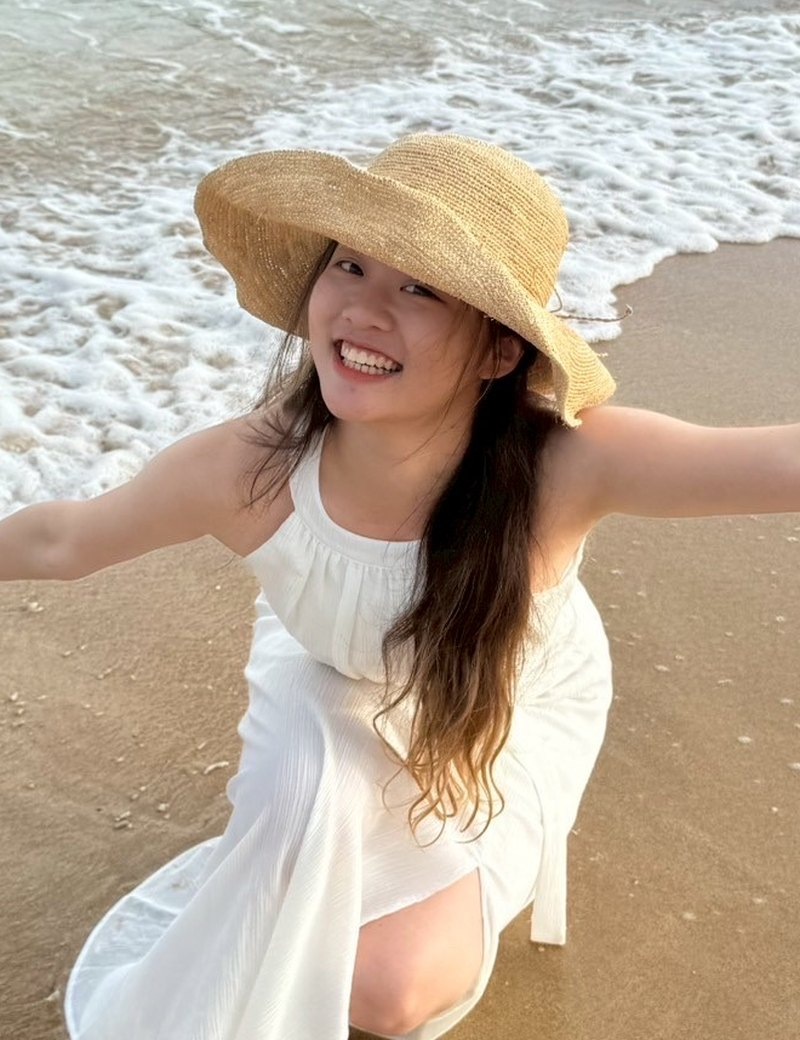
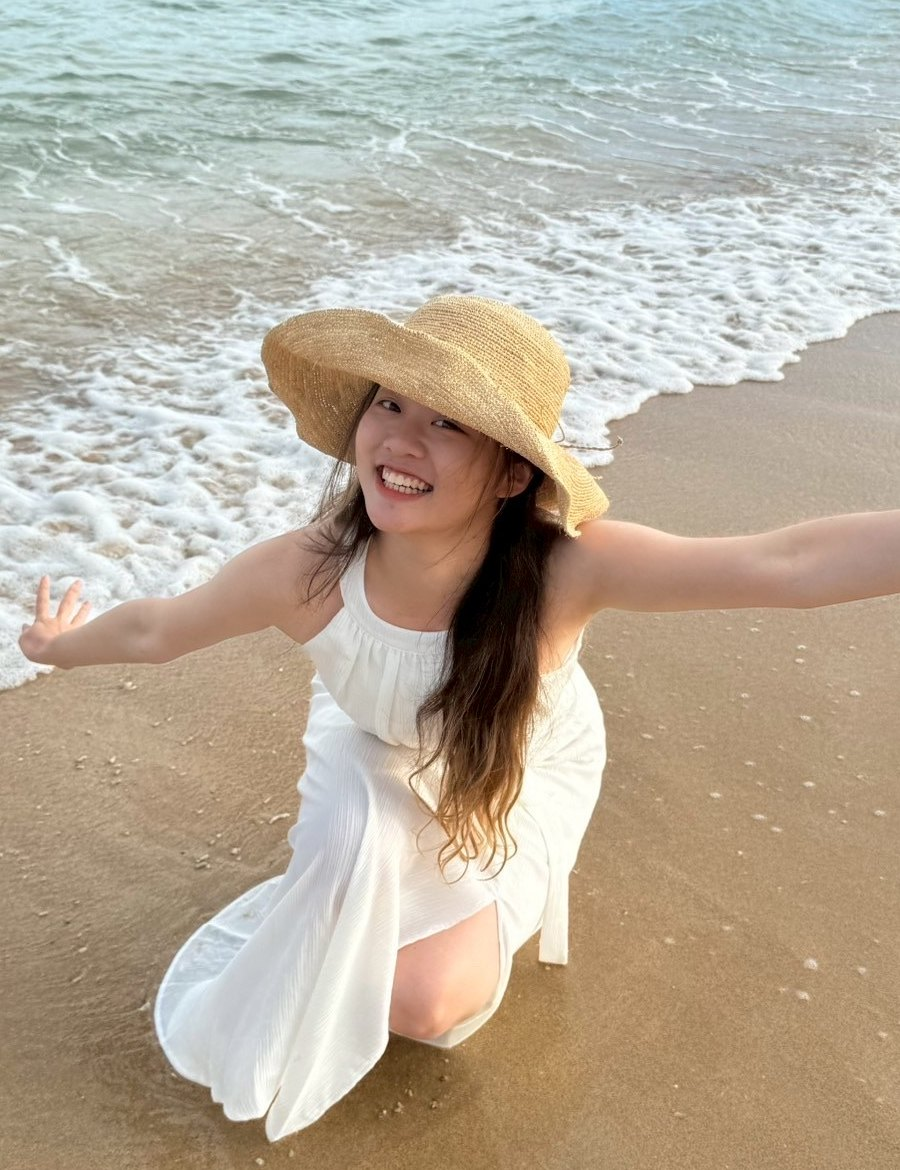
Frame the portrait with a botanical line wreath and crop the photo wider
Claude-Session: https://claude.ai/code/session_018JBiZYXkG9BFBBaLP6bSJ8

diff --git a/web/anyucheng/index.html b/web/anyucheng/index.html
@@ -51,10 +51,10 @@ html[lang="en"] .zh-name{display:none}
 h1{margin:0;font-family:var(--display);font-weight:400;font-size:clamp(46px,7.4vw,150px);line-height:.98;text-wrap:balance;letter-spacing:-.01em}
 .statement{margin:12px 0 0;max-width:22em;font-family:var(--display);font-style:italic;font-size:clamp(26px,2.9vw,48px);line-height:1.3;text-wrap:pretty;white-space:pre-line}
 .sub{margin:0;max-width:30em;color:var(--muted)}
-.medallion{position:relative;flex:0 1 clamp(220px,24vw,400px);aspect-ratio:10/13;border-radius:999px;overflow:hidden;background:var(--putty)}
+.portrait{position:relative;flex:0 1 clamp(250px,28vw,460px);aspect-ratio:10/13}
+.medallion{position:absolute;inset:9%;border-radius:999px;overflow:hidden;background:var(--putty)}
 .medallion img{display:block;width:100%;height:100%;object-fit:cover}
-/* thin inner ring drawn over the photo, like a portrait frame */
-.medallion::after{content:"";position:absolute;inset:12px;border-radius:999px;border:1.5px solid rgba(246,237,224,.85);pointer-events:none}
+.frame{position:absolute;inset:0;width:100%;height:100%}
 
 .sec{display:grid;grid-template-columns:minmax(220px,22%) minmax(0,1fr);gap:20px clamp(32px,4vw,80px);padding:clamp(44px,4.5vw,80px) 0;border-top:1px solid var(--wood-light)}
 .sec.panel{border-top:0;padding:clamp(36px,4vw,72px) clamp(24px,3.8vw,72px);border-radius:4px;background:var(--paper)}
@@ -95,7 +95,7 @@ html[lang="zh-Hant"] .links a{letter-spacing:.08em}
 @media (max-width:820px){
   .banner{padding:6px 0}
   .name-row{gap:16px}
-  .medallion{margin:0 auto}
+  .portrait{margin:0 auto}
   .sec{grid-template-columns:minmax(0,1fr)}
   .links{gap:0 22px}
   nav{padding:18px 0}
@@ -143,7 +143,48 @@ html[lang="zh-Hant"] .links a{letter-spacing:.08em}
     <p class="statement" data-zh="若問此生何所學，三分泛化，七分執拗。&#10;若問此生何所求，萬里風光，幾分自由。">I study how machines listen. I also teach, choreograph, and run science camps.</p>
     <p class="sub" data-zh="國立臺灣大學電機工程學系學生，預計 2027 年 6 月畢業。研究興趣是大型語音語言模型、視覺語言動作模型，以及高效率的推論與訓練。">Electrical engineering student at National Taiwan University, graduating June 2027. Interested in large audio-language models, vision-language-action models, and efficient inference and training.</p>
   </div>
-  <div class="medallion"><img src="portrait.jpg" alt="An-Yu Sarah Cheng"></div>
+  <div class="portrait">
+<div class="medallion"><img src="portrait.jpg" alt="An-Yu Sarah Cheng"></div>
+<svg class="frame" aria-hidden="true" viewBox="0 0 1000 1300" fill="none" stroke="#6B4A32" stroke-width="1.3" stroke-linecap="round" stroke-linejoin="round">
+<g>
+<ellipse vector-effect="non-scaling-stroke" cx="500" cy="650" rx="424" ry="551"/>
+<g id="branch">
+<path vector-effect="non-scaling-stroke" d="M595.2 1234.9 L610.8 1230.2 L626.2 1224.8 L641.5 1218.7 L656.6 1211.9 L671.6 1204.5 L686.3 1196.3 L700.8 1187.5 L715.0 1178.0 L729.0 1167.9 L742.7 1157.1 L756.1 1145.8 L769.2 1133.8 L782.0 1121.2 L794.4 1108.1 L806.5 1094.4 L818.2 1080.2 L829.5 1065.4 L840.4 1050.1 L850.8 1034.4 L860.9 1018.2 L870.5 1001.5 L879.7 984.4 L888.4 966.9 L896.6 949.0 L904.4 930.7 L911.6 912.1 L918.4 893.2 L924.7 874.0 L930.4 854.5 L935.6 834.8 L940.3 814.8 L944.4 794.7 L948.0 774.3 L951.0 753.8 L953.5 733.2 L955.5 712.5 L956.9 691.7 L957.7 670.9 L958.0 650.0 L957.7 629.1 L956.9 608.3 L955.5 587.5 L953.5 566.8 L951.0 546.2 L948.0 525.7 L944.4 505.3 L940.3 485.2 L935.6 465.2 L930.4 445.5 L924.7 426.0 L918.4 406.8 L911.6 387.9 L904.4 369.3 L896.6 351.0 L888.4 333.1 L879.7 315.6 L870.5 298.5 L860.9 281.8 L850.8 265.6 L840.4 249.9 L829.5 234.6 L818.2 219.8 L806.5 205.6 L794.4 191.9 L782.0 178.8 L769.2 166.2 L756.1 154.2 L742.7 142.9 L729.0 132.1 L715.0 122.0 L700.8 112.5 L686.3 103.7 L671.6 95.5 L656.6 88.1 L641.5 81.3 L626.2 75.2 L610.8 69.8 L595.2 65.1 L579.5 61.1"/>
+<path vector-effect="non-scaling-stroke" d="M0 0 Q22.5 -15.0 50 0 Q22.5 15.0 0 0 M0 0 L41.0 0" transform="translate(641.5 1218.7) rotate(-57.0)"/>
+<path vector-effect="non-scaling-stroke" d="M0 0 Q22.5 -15.0 50 0 Q22.5 15.0 0 0 M0 0 L41.0 0" transform="translate(689.2 1194.6) rotate(3.4)"/>
+<path vector-effect="non-scaling-stroke" d="M0 0 Q22.5 -15.0 50 0 Q22.5 15.0 0 0 M0 0 L41.0 0" transform="translate(734.5 1163.7) rotate(-71.9)"/>
+<path vector-effect="non-scaling-stroke" d="M0 0 Q22.5 -15.0 50 0 Q22.5 15.0 0 0 M0 0 L41.0 0" transform="translate(776.9 1126.3) rotate(-10.7)"/>
+<path vector-effect="non-scaling-stroke" d="M0 0 Q22.5 -15.0 50 0 Q22.5 15.0 0 0 M0 0 L41.0 0" transform="translate(815.8 1083.1) rotate(-85.2)"/>
+<circle vector-effect="non-scaling-stroke" cx="836.8" cy="1062.1" r="5"/>
+<path vector-effect="non-scaling-stroke" d="M0 0 Q22.5 -15.0 50 0 Q22.5 15.0 0 0 M0 0 L41.0 0" transform="translate(850.8 1034.4) rotate(-23.3)"/>
+<path vector-effect="non-scaling-stroke" d="M0 0 Q22.5 -15.0 50 0 Q22.5 15.0 0 0 M0 0 L41.0 0" transform="translate(881.5 980.9) rotate(-97.0)"/>
+<path vector-effect="non-scaling-stroke" d="M0 0 Q22.5 -15.0 50 0 Q22.5 15.0 0 0 M0 0 L41.0 0" transform="translate(907.4 923.3) rotate(-34.5)"/>
+<path vector-effect="non-scaling-stroke" d="M0 0 Q22.5 -15.0 50 0 Q22.5 15.0 0 0 M0 0 L41.0 0" transform="translate(928.2 862.4) rotate(-107.8)"/>
+<path vector-effect="non-scaling-stroke" d="M0 0 Q22.5 -15.0 50 0 Q22.5 15.0 0 0 M0 0 L41.0 0" transform="translate(943.6 798.7) rotate(-44.9)"/>
+<circle vector-effect="non-scaling-stroke" cx="953.2" cy="766.9" r="5"/>
+<path vector-effect="non-scaling-stroke" d="M0 0 Q22.5 -15.0 50 0 Q22.5 15.0 0 0 M0 0 L41.0 0" transform="translate(953.5 733.2) rotate(-117.9)"/>
+<path vector-effect="non-scaling-stroke" d="M0 0 Q22.5 -15.0 50 0 Q22.5 15.0 0 0 M0 0 L41.0 0" transform="translate(957.8 666.7) rotate(-54.8)"/>
+<path vector-effect="non-scaling-stroke" d="M0 0 Q22.5 -15.0 50 0 Q22.5 15.0 0 0 M0 0 L41.0 0" transform="translate(956.4 600.0) rotate(-127.7)"/>
+<path vector-effect="non-scaling-stroke" d="M0 0 Q22.5 -15.0 50 0 Q22.5 15.0 0 0 M0 0 L41.0 0" transform="translate(949.3 533.8) rotate(-64.6)"/>
+<path vector-effect="non-scaling-stroke" d="M0 0 Q22.5 -15.0 50 0 Q22.5 15.0 0 0 M0 0 L41.0 0" transform="translate(936.6 469.2) rotate(-137.7)"/>
+<circle vector-effect="non-scaling-stroke" cx="931.9" cy="436.2" r="5"/>
+<path vector-effect="non-scaling-stroke" d="M0 0 Q22.5 -15.0 50 0 Q22.5 15.0 0 0 M0 0 L41.0 0" transform="translate(918.4 406.8) rotate(-74.8)"/>
+<path vector-effect="non-scaling-stroke" d="M0 0 Q22.5 -15.0 50 0 Q22.5 15.0 0 0 M0 0 L41.0 0" transform="translate(895.0 347.4) rotate(-148.2)"/>
+<path vector-effect="non-scaling-stroke" d="M0 0 Q22.5 -15.0 50 0 Q22.5 15.0 0 0 M0 0 L41.0 0" transform="translate(866.7 291.8) rotate(-85.8)"/>
+<path vector-effect="non-scaling-stroke" d="M0 0 Q22.5 -15.0 50 0 Q22.5 15.0 0 0 M0 0 L41.0 0" transform="translate(833.9 240.6) rotate(-159.7)"/>
+<path vector-effect="non-scaling-stroke" d="M0 0 Q22.5 -15.0 50 0 Q22.5 15.0 0 0 M0 0 L41.0 0" transform="translate(796.8 194.6) rotate(-98.0)"/>
+<circle vector-effect="non-scaling-stroke" cx="779.3" cy="170.5" r="5"/>
+<path vector-effect="non-scaling-stroke" d="M0 0 Q22.5 -15.0 50 0 Q22.5 15.0 0 0 M0 0 L41.0 0" transform="translate(756.1 154.2) rotate(-172.6)"/>
+<path vector-effect="non-scaling-stroke" d="M0 0 Q22.5 -15.0 50 0 Q22.5 15.0 0 0 M0 0 L41.0 0" transform="translate(712.2 120.1) rotate(-111.7)"/>
+<path vector-effect="non-scaling-stroke" d="M0 0 Q22.5 -15.0 50 0 Q22.5 15.0 0 0 M0 0 L41.0 0" transform="translate(665.6 92.5) rotate(-187.1)"/>
+<path vector-effect="non-scaling-stroke" d="M0 0 Q22.5 -15.0 50 0 Q22.5 15.0 0 0 M0 0 L41.0 0" transform="translate(617.0 71.8) rotate(-127.0)"/>
+</g>
+<use href="#branch" transform="translate(1000 0) scale(-1 1)"/>
+<circle vector-effect="non-scaling-stroke" cx="500.0" cy="33.8" r="13"/><circle vector-effect="non-scaling-stroke" cx="515.5" cy="45.0" r="13"/><circle vector-effect="non-scaling-stroke" cx="509.6" cy="63.1" r="13"/><circle vector-effect="non-scaling-stroke" cx="490.4" cy="63.1" r="13"/><circle vector-effect="non-scaling-stroke" cx="484.5" cy="45.0" r="13"/><circle vector-effect="non-scaling-stroke" cx="500.0" cy="50.0" r="4.5"/>
+<circle vector-effect="non-scaling-stroke" cx="500.0" cy="1233.8" r="13"/><circle vector-effect="non-scaling-stroke" cx="515.5" cy="1245.0" r="13"/><circle vector-effect="non-scaling-stroke" cx="509.6" cy="1263.1" r="13"/><circle vector-effect="non-scaling-stroke" cx="490.4" cy="1263.1" r="13"/><circle vector-effect="non-scaling-stroke" cx="484.5" cy="1245.0" r="13"/><circle vector-effect="non-scaling-stroke" cx="500.0" cy="1250.0" r="4.5"/>
+</g>
+</svg>
+</div>
 </header>
 </div>
 
